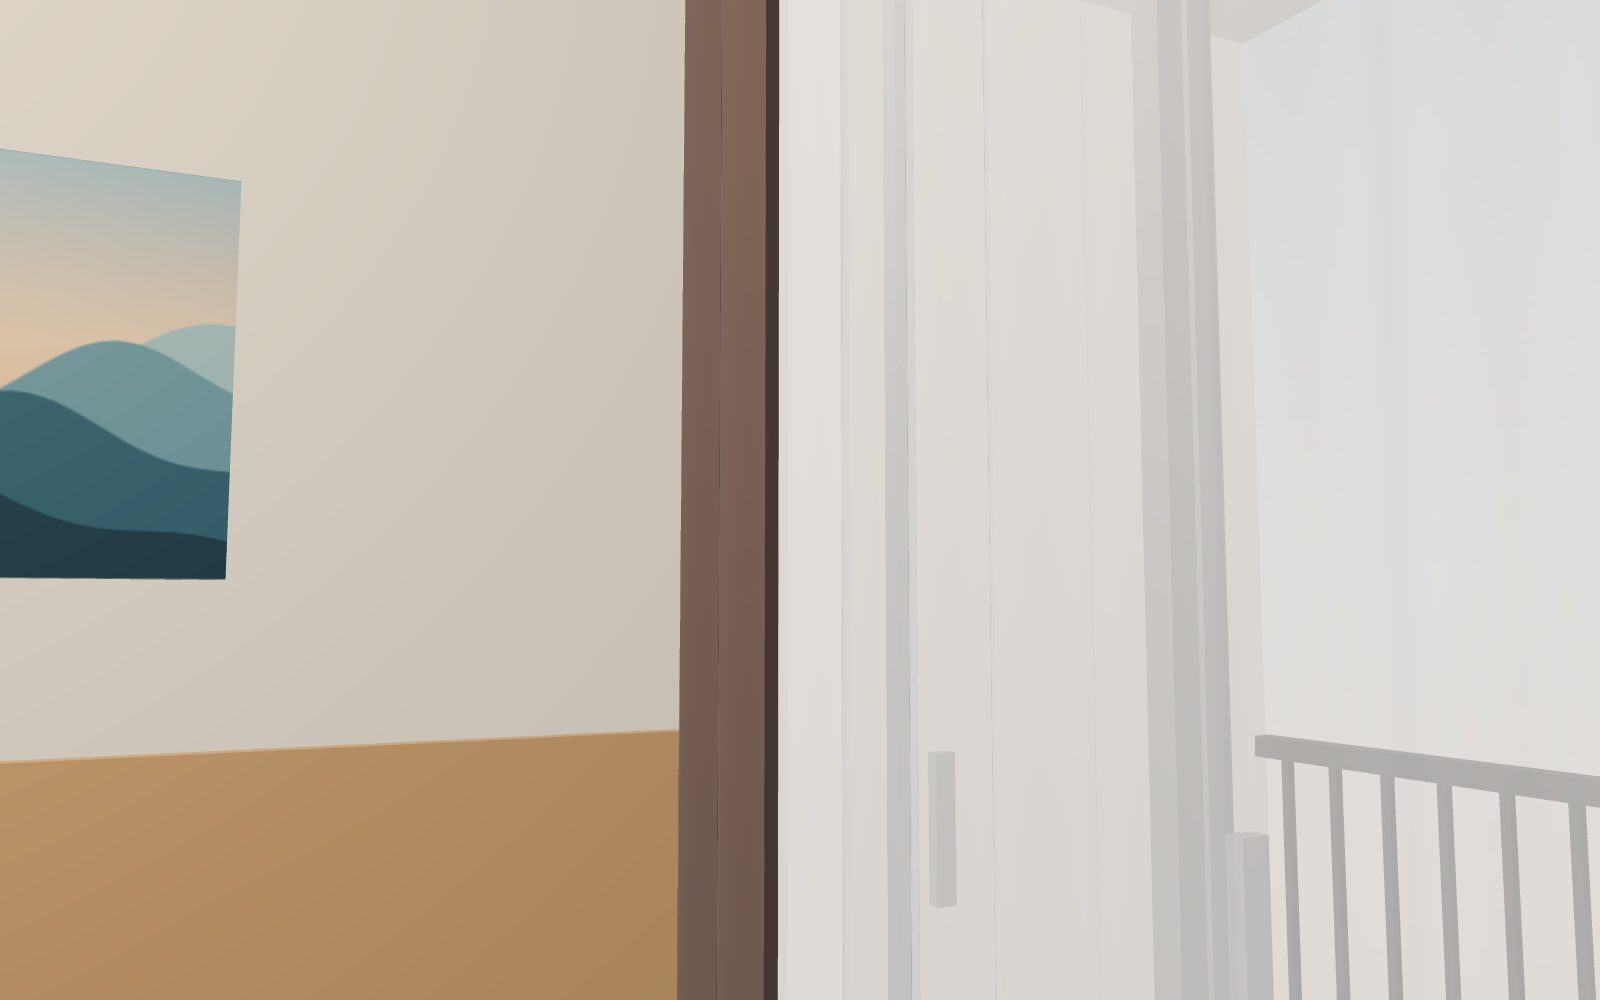
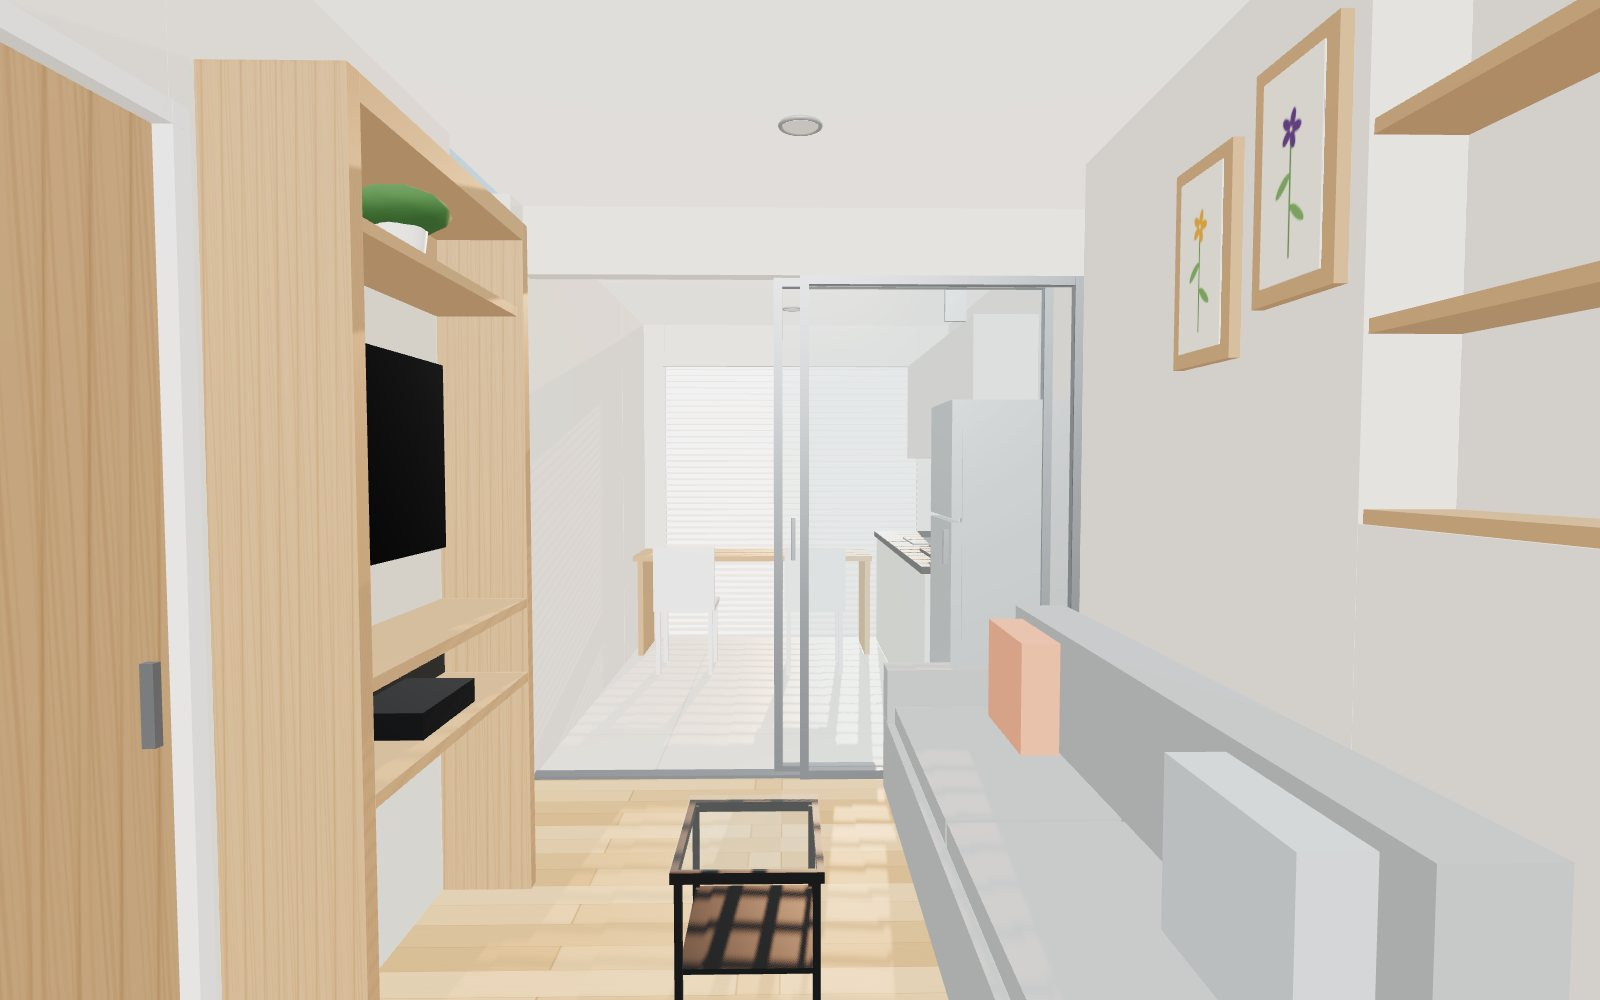
feat(pages): use a hall-to-kitchen view as the front page teaser

diff --git a/index.html b/index.html
@@ -20,7 +20,7 @@
   <p class="lede">Places I've stayed, rebuilt in 3D from iPhone LiDAR scans I take on the way out. Walk through them, open the doors, switch on the lights.</p>
   <ul class="places">
     <li><a class="place" href="rental-2026/3d/index.html">
-      <img src="rental-2026/stills/teaser.jpg" alt="A corner of the bedroom at dusk, curtains half drawn" width="1600" height="1000">
+      <img src="rental-2026/stills/teaser.jpg" alt="The living room looking through the glass partition into the kitchen, morning light at the window" width="1600" height="1000">
       <div><h3>Short-term rental, 2026</h3><span class="go">Step inside</span></div>
     </a></li>
   </ul>
